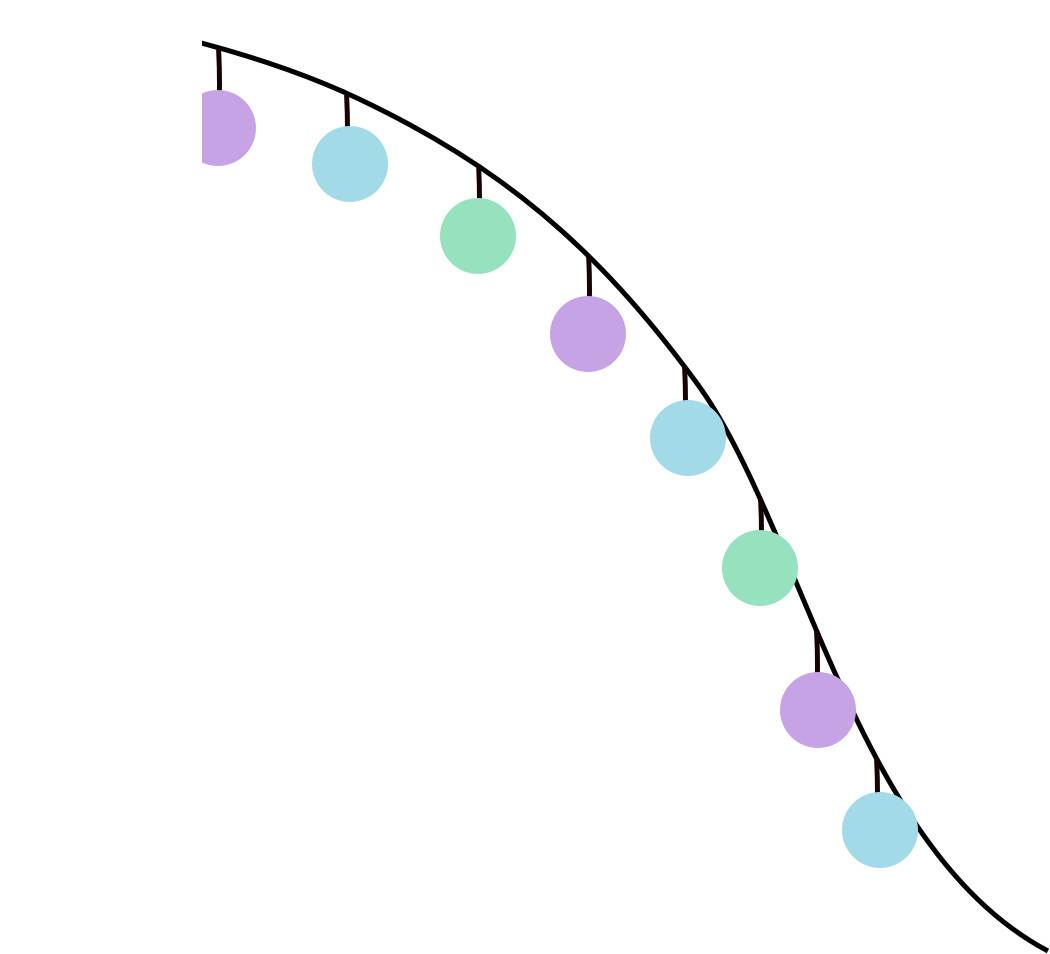
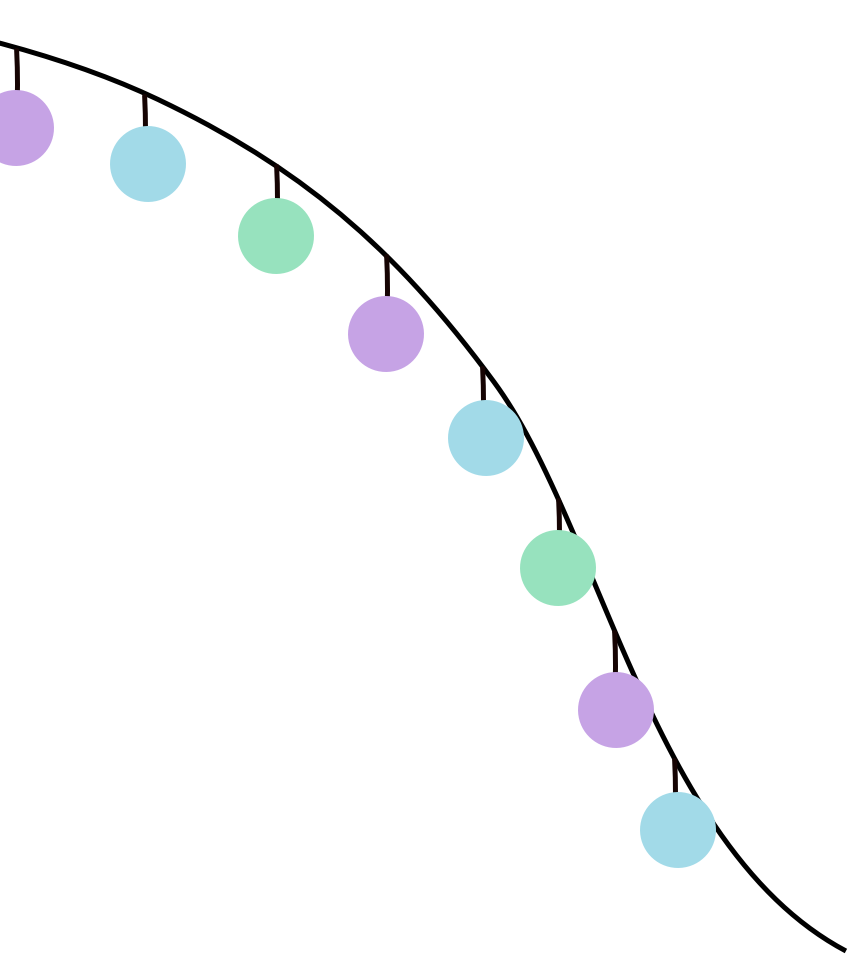
fix: service section rwd style

diff --git a/src/components/organisms/Service/index.scss b/src/components/organisms/Service/index.scss
@@ -1,0 +1,239 @@
+.section-service {
+    width: 100vw;
+    overflow-x: hidden;
+    background-repeat: no-repeat;
+    background-size: cover;
+    background-position: center top;
+    padding: 26vw 0 41vw;
+    position: relative;
+    @media screen and (min-width: 1024px) {
+        padding: 18vw 0 20vw;
+    }
+    .service-bulbs-top {
+        position: absolute;
+        top: 0;
+        right: -4%;
+        width: 65vw;
+        @media screen and (min-width: 1024px) {
+            width: 25vw;
+            top: 10.2vw;
+            right: 0;
+        }
+        img {
+            width: 100%;
+            height: auto;
+        }
+    }
+    .service-text {
+        margin-bottom: 25px;
+        position: relative;
+        z-index: 1;
+        @media screen and (min-width: 1280px) {
+            margin-bottom: 50px;
+        }
+        h2 {
+            margin-bottom: 20px;
+            @media screen and (min-width: 1280px) {
+                margin-bottom: 24px;
+            }
+        }
+        h2, p {
+            text-align: center;
+        }
+    }
+    .service-imgs {
+        padding: 0 20px;
+        margin-bottom: 11px;
+        display: flex;
+        flex-direction: column;
+        position: relative;
+        z-index: 1;
+        @media screen and (min-width: 768px) {
+            padding: 0 40px;
+        }
+        @media screen and (min-width: 1024px) {
+            flex-direction: row;
+            margin-bottom: 75px;
+        }
+        @media screen and (min-width: 1280px) {
+            padding: 0 80px;
+        }
+        img {
+            width: 100%;
+        }
+        .service-bulbs-right {
+            display: none;
+            @media screen and (min-width: 1024px) {
+                display: block;
+            }
+        }
+        .service-imgs-group {
+            width: calc(100vw - 75px);
+            z-index: 1;
+            @media screen and (min-width: 768px) {
+                width: calc(100vw - 115px);
+            }
+            @media screen and (min-width: 1024px) {
+                width: calc((100vw - 30px) * 0.65);
+            }
+            @media screen and (min-width: 1280px) {
+                width: calc((100vw - 110px) * 0.65);
+            }
+        }
+        .service-imgs-kid {
+            width: calc(100vw - 156px);
+            position: relative;
+            z-index: 1;
+            top: -10px;
+            align-self: flex-end;
+            @media screen and (min-width: 768px) {
+                width: calc(100vw - 196px);
+                top: -30px;
+            }
+            @media screen and (min-width: 1024px) {
+                top: 50px;
+                margin-left: -50px;
+                width: calc((100vw - 30px) * 0.35);
+            }
+            @media screen and (min-width: 1280) {
+                width: calc((100vw - 110px) * 0.35);
+            }
+        }
+    }
+    .service-bulbs-left {
+        display: none;
+        @media screen and (min-width: 1024px) {
+            display: block;
+            width: 29vw;
+            position: absolute;
+            top: 0;
+            left: 0;
+        }
+        img {
+            width: 100%;
+        }
+    }
+    .service-bulbs-right {
+        width: 100%;
+        margin-bottom: 7px;
+        position: relative;
+        z-index: 1;
+        @media screen and (min-width: 1024px) {
+            display: none;
+            position: absolute;
+            top: 0;
+            right: 0;
+            width: calc(100% - 40px - (100vw - 30px) * 0.65);
+        }
+        @media screen and (min-width: 1024px) {
+            width: calc(100% - 80px - (100vw - 110px) * 0.65);
+            z-index: 0;
+        }
+        @media screen and (min-width: 1280px) {
+            width: calc(100% - 80px - (100vw - 160px) * 0.65);
+            top: -90px;
+            z-index: 0;
+        }
+        img {
+            width: 100%;
+        }
+    }
+    .service-intro-top {
+        position: relative;
+        .white-circle {
+            width: 96vw;
+            height: 96vw;
+            position: absolute;
+            top: 26vw;
+            right: -40%;
+            z-index: 0;
+            @media screen and (min-width: 1024px) {
+                width: 408px;
+                height: 408px;
+                top: 20px;
+                right: 40px;
+            }
+            @media screen and (min-width: 1280px) {
+                right: 80px;
+            }
+        }
+    }
+    .service-construction {
+        position: relative;
+        &:last-child {
+            margin-bottom: 0;
+        }
+        .bg-circle {
+            width: 565px;
+            height: 565px;
+            border-radius: 50%;
+            background-color: var(--white);
+            opacity: 0.45;
+            z-index: 0;
+            top: calc(50% - 20px);
+            @media screen and (min-width: 1024px) {
+                width: 58vw;
+                height: 58vw;
+                max-width: 844px;
+                max-height: 844px;
+                transform: translateY(-50%);
+                left: 40px;
+            }
+        }
+        .text-content-wrapper {
+            @media screen and (min-width: 1024px) {
+                width: calc(58vw + 40px);
+                max-width: 844px;
+                padding-left: 40px;
+            }
+        }
+        .white-circle {
+            width: 540px;
+            height: 540px;
+            position: absolute;
+            top: -215px;
+            right: 55px;
+            @media screen and (min-width: 1024px) {
+                width: 46vw;
+                height: 46vw;
+                max-width: 670px;
+                max-height: 670px;
+                right: auto;
+                left: -15%;
+            }
+        }
+        h3 {
+            margin-bottom: 25px;
+        }
+        h3, h4, p {
+            text-align: center;
+        }
+        h3, .text-item {
+            position: relative;
+            z-index: 1;
+        }
+        .text-item-wrapper {
+            @media screen and (min-width: 1024px) {
+                display: flex;
+                justify-content: center;
+            }
+        }
+        .text-item {
+            margin-bottom: 25px;
+            @media screen and (min-width: 1024px) {
+                margin-bottom: 0;
+            }
+            h4 {
+                margin-bottom: 10px;
+            }
+            p {
+                white-space: pre-wrap;
+            }
+            &:nth-child(2) {
+                @media screen and (min-width: 1024px) {
+                    margin: 0 70px;
+                }
+            }
+        }
+    }
+}

diff --git a/src/components/organisms/Service/index.js b/src/components/organisms/Service/index.js
@@ -1,15 +1,18 @@
 import React from "react";
 import classNames from "classnames";
 
+import WhiteCircle from "components/atoms/WhiteCircle";
+
 import leftBulbs from "static/png/bulbs-left.png";
 import leftBulbsHover from "static/png/bulbs-left-hover.png";
 import rightBulbs from "static/png/bulbs-right.png";
 import rightBulbsHover from "static/png/bulbs-right-hover.png";
 import topBulbs from "static/png/bulbs-top.png";
 import topBulbsHover from "static/png/bulbs-top-hover.png";
-import WhiteCircle from "components/atoms/WhiteCircle";
 import bg from "static/svg/service-bg.svg";
 import bgHover from "static/svg/service-bg-hover.svg";
+import service1 from "static/png/service-1.png"
+import service2 from "static/png/service-2.png"
 
 import { text } from "./text";
 
@@ -17,7 +20,7 @@ import "./index.scss";
 
 const TextItem = ({ title, content }) => (
   <div className="text-item">
-    <h5>{title}</h5>
+    <h4>{title}</h4>
     <p>{content}</p>
   </div>
 );
@@ -32,40 +35,54 @@ const Service = ({ mask }) => {
         {!mask && <img src={topBulbs} alt="上方的燈泡" />}
         {mask && <img src={topBulbsHover} alt="上方的燈泡" />}
       </div>
-      <div className="service-text">
-        <h2>
-          與孩子共創
-          <br />
-          更好的世界
-        </h2>
-        <p>
-          我們相信
-          <br />
-          每個孩子都是未來世界組成的一份子
-          <br />
-          幫助孩子成為更好的人
-          <br />
-          世界就會更美好、就有無限可能
-          <br />
-          我們一起與孩子共創一個更好的世界！
-        </p>
-      </div>
-      <div className="service-bulbs-left">
-        {!mask && <img src={leftBulbs} alt="左邊的燈泡" />}
-        {mask && <img src={leftBulbsHover} alt="左邊的燈泡" />}
-      </div>
-      <div className="service-bulbs-right">
-        {!mask && <img src={rightBulbs} alt="拿著燈泡的角色們" />}
-        {mask && <img src={rightBulbsHover} alt="拿著燈泡的角色們" />}
-      </div>
-      <WhiteCircle />
-      <div className="service-construction">
-        <div className="bg-circle" />
+      <div className="service-intro-top">
+        <div className="service-text">
+          <h2>
+            與孩子共創
+            <br />
+            更好的世界
+          </h2>
+          <p>
+            我們相信
+            <br />
+            每個孩子都是未來世界組成的一份子
+            <br />
+            幫助孩子成為更好的人
+            <br />
+            世界就會更美好、就有無限可能
+            <br />
+            我們一起與孩子共創一個更好的世界！
+          </p>
+        </div>
+        <div className="service-imgs">
+          <img src={service1} alt="" className="service-imgs-group" />
+          <img src={service2} alt="" className="service-imgs-kid" />
+          <div className="service-bulbs-right">
+            {!mask && <img src={rightBulbs} alt="拿著燈泡的角色們" />}
+            {mask && <img src={rightBulbsHover} alt="拿著燈泡的角色們" />}
+          </div>
+        </div>
+        <div className="service-bulbs-left">
+          {!mask && <img src={leftBulbs} alt="左邊的燈泡" />}
+          {mask && <img src={leftBulbsHover} alt="左邊的燈泡" />}
+        </div>
+        <div className="service-bulbs-right">
+          {!mask && <img src={rightBulbs} alt="拿著燈泡的角色們" />}
+          {mask && <img src={rightBulbsHover} alt="拿著燈泡的角色們" />}
+        </div>
         <WhiteCircle />
-        <h3>三大服務架構</h3>
-        {text.map((e) => (
-          <TextItem title={e.title} content={e.content} key={e.id} />
-        ))}
+      </div>
+      <div className="service-construction">
+        <div className="bg-circle ab-center" />
+        <WhiteCircle />
+        <div className="text-content-wrapper">
+          <h3>三大服務架構</h3>
+          <div className="text-item-wrapper">
+            {text.map((e) => (
+              <TextItem title={e.title} content={e.content} key={e.id} />
+            ))}
+          </div>
+        </div>
       </div>
     </section>
   );

diff --git a/src/components/organisms/Service/text.js b/src/components/organisms/Service/text.js
@@ -2,16 +2,14 @@ export const text = [
   {
     id: 1,
     title: "家庭增能",
-    content: `
-    收出養服務
+    content: `收出養服務
 親職與育兒支持服務
 托育與親子館服務`,
   },
   {
     id: 2,
     title: "特殊境遇",
-    content: `
-    逆境與弱勢家庭服務
+    content: `逆境與弱勢家庭服務
 偏鄉兒少關懷服務
 兒少保護與創傷服務
 失蹤兒紹協尋與少年服務
@@ -20,8 +18,7 @@ export const text = [
   {
     id: 3,
     title: "社會共好",
-    content: `
-    兒少倡議與立法
+    content: `兒少倡議與立法
 兒少培力與知能推廣`,
   },
 ];
